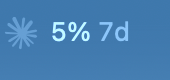
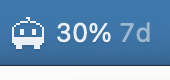
Replace the Claude mark with Sprout, an original pixel critter
The menu bar icon was the Claude mark pulled from Claude Desktop, which sat
right next to Claude Desktop's own identical menu bar icon. Sprout is ours:
drawn in code, no image files, and not a copy of Anthropic's logo or Clawd.

- Sprout's body fills from the bottom as the headline limit is used, in 12
  steps, so the icon shows how much is gone before you read the number.
- Outline plus fill: the edge is always solid and the inside fills. macOS
  draws menu bar icons in a narrow contrast band on tinted menu bars, so a
  faint "empty" body vanished there. The eyes flip (solid on empty, holes on
  filled) so the face always shows.
- 16x16 pt, one grid pixel per point, so the pixel art stays crisp.
- README screenshot and CLAUDE.md icon rule updated.

diff --git a/main.swift b/main.swift
@@ -413,76 +413,77 @@ func computePace(currentPercent: Double, samples: [Sample], meterKey: String, co
 
 // MARK: - Menu bar icon
 
-/// The real Claude app icon, read from the locally installed Claude Desktop at
-/// runtime — never bundled or redistributed by this app, just looked up the same
-/// way Finder or the Dock would show any other app's icon.
-private let claudeAppPaths = ["/Applications/Claude.app"]
-
-func loadClaudeIcon() -> NSImage? {
-    for path in claudeAppPaths where FileManager.default.fileExists(atPath: path) {
-        return NSWorkspace.shared.icon(forFile: path)
-    }
-    return nil
-}
-
-/// Extracts just the sunburst mark from the app icon — dropping both the solid
-/// background fill and the thin rim around its rounded-square edge — as a
-/// template image: a shape-only mask with no fixed color of its own, so AppKit
-/// auto-tints it to match the surrounding menu bar text exactly, in any theme
-/// (the same mechanism most menu bar icons use, e.g. the lock/extension icons
-/// next to this one).
+/// Sprout, ClaudeMeter's own pixel critter. Its body fills from the bottom as
+/// the headline limit is used up, so the icon shows how much is gone before
+/// you read the number. Drawn in code, no image files, and original on
+/// purpose: this app never bundles Anthropic's logo or mascot.
 ///
-/// Two passes over the pixels: brightness picks out the white mark (and,
-/// unfortunately, the rim, which is bright too); a margin around the edges then
-/// discards the rim specifically, since it hugs the icon's outer edge and the
-/// rays don't reach that far. The result is cropped tightly to the mark's own
-/// bounding box so it fills the small icon frame instead of floating in
-/// transparent padding.
-func silhouette(of icon: NSImage, pixelSize: Int = 512, threshold: CGFloat = 0.6,
-                 edgeInset: CGFloat = 0.18) -> NSImage? {
-    var rect = NSRect(x: 0, y: 0, width: pixelSize, height: pixelSize)
-    guard let cgImage = icon.cgImage(forProposedRect: &rect, context: nil, hints: nil) else { return nil }
-    let width = cgImage.width, height = cgImage.height
-    guard let context = CGContext(data: nil, width: width, height: height, bitsPerComponent: 8,
-                                   bytesPerRow: width * 4, space: CGColorSpaceCreateDeviceRGB(),
-                                   bitmapInfo: CGImageAlphaInfo.premultipliedLast.rawValue)
-    else { return nil }
-    context.draw(cgImage, in: CGRect(x: 0, y: 0, width: width, height: height))
-    guard let data = context.data else { return nil }
+/// `#` is always solid (antenna, feet). `b` is body: its outer edge is always
+/// solid and the inside fills. `e` is an eye: solid while the body around it is
+/// empty, a hole once it fills, so the face always shows. Top row first.
+///
+/// The outline is what makes this work on any wallpaper. macOS squeezes menu
+/// bar icons into a narrow contrast band on tinted menu bars, so a faint
+/// "empty" body vanished there; solid-or-clear pixels don't.
+private let sproutPixels = [
+    "........##........",
+    ".........#........",
+    ".....bbbbbbbb.....",
+    "...bbbbbbbbbbbb...",
+    "..bbbbbbbbbbbbbb..",
+    ".bbbbbbbbbbbbbbbb.",
+    ".bbbbeebbbbeebbbb.",
+    ".bbbbeebbbbeebbbb.",
+    ".bbbbeebbbbeebbbb.",
+    ".bbbbbbbbbbbbbbbb.",
+    ".bbbbbbbbbbbbbbbb.",
+    ".bbbbbbbbbbbbbbbb.",
+    ".bbbbbbbbbbbbbbbb.",
+    "..bbbbbbbbbbbbbb..",
+    "...###......###...",
+    "...###......###...",
+]
 
-    let buffer = data.bindMemory(to: UInt8.self, capacity: width * height * 4)
-    let insetPx = Int(CGFloat(width) * edgeInset)
-    var minX = width, maxX = 0, minY = height, maxY = 0
+/// A template image: shape only, no color of its own, so AppKit tints it to
+/// match the menu bar text in any theme.
+///
+/// One grid pixel is one point (two device pixels on Retina), which keeps the
+/// pixel art crisp. Blank columns are trimmed so the number sits right next to it.
+func sproutIcon(percentUsed: Double?) -> NSImage {
+    let rows = sproutPixels.map(Array.init)
+    let bodyRows = rows.indices.filter { rows[$0].contains("b") }
+    let fraction = min(max(percentUsed ?? 0, 0), 100) / 100
+    let filledCount = Int((fraction * Double(bodyRows.count)).rounded())
+    let filledRows = Set(bodyRows.suffix(filledCount))
 
-    for y in 0..<height {
-        for x in 0..<width {
-            let i = (y * width + x) * 4
-            let alpha = CGFloat(buffer[i + 3]) / 255
-            let nearEdge = x < insetPx || x >= width - insetPx || y < insetPx || y >= height - insetPx
-            guard alpha > 0.95, !nearEdge else { buffer[i + 3] = 0; continue }
-            let luminance = 0.299 * CGFloat(buffer[i]) / 255
-                + 0.587 * CGFloat(buffer[i + 1]) / 255
-                + 0.114 * CGFloat(buffer[i + 2]) / 255
-            let keep = luminance > threshold
-            buffer[i + 3] = keep ? 255 : 0
-            buffer[i] = 255; buffer[i + 1] = 255; buffer[i + 2] = 255 // template images ignore RGB anyway
-            if keep {
-                minX = min(minX, x); maxX = max(maxX, x)
-                minY = min(minY, y); maxY = max(maxY, y)
-            }
+    func isEdge(_ y: Int, _ x: Int) -> Bool {
+        [(y - 1, x), (y + 1, x), (y, x - 1), (y, x + 1)].contains { ny, nx in
+            !rows.indices.contains(ny) || !rows[ny].indices.contains(nx) || rows[ny][nx] == "."
         }
     }
-    guard let fullCG = context.makeImage(), maxX > minX, maxY > minY else { return nil }
 
-    let pad = Int(CGFloat(maxX - minX) * 0.06)
-    let cropRect = CGRect(x: max(0, minX - pad), y: max(0, minY - pad),
-                           width: min(width, maxX - minX + pad * 2),
-                           height: min(height, maxY - minY + pad * 2))
-    guard let croppedCG = fullCG.cropping(to: cropRect) else { return nil }
+    let usedColumns = rows.flatMap { row in row.indices.filter { row[$0] != "." } }
+    let firstColumn = usedColumns.min() ?? 0, lastColumn = usedColumns.max() ?? 0
 
-    let result = NSImage(cgImage: croppedCG, size: NSSize(width: 18, height: 18))
-    result.isTemplate = true
-    return result
+    let image = NSImage(size: NSSize(width: lastColumn - firstColumn + 1, height: rows.count),
+                        flipped: true) { _ in
+        NSColor.black.setFill()
+        for (y, row) in rows.enumerated() {
+            for (x, pixel) in row.enumerated() {
+                let solid: Bool
+                switch pixel {
+                case "#": solid = true
+                case "b": solid = filledRows.contains(y) || isEdge(y, x)
+                case "e": solid = !filledRows.contains(y)
+                default: solid = false
+                }
+                if solid { NSRect(x: x - firstColumn, y: y, width: 1, height: 1).fill() }
+            }
+        }
+        return true
+    }
+    image.isTemplate = true
+    return image
 }
 
 // MARK: - Login item
@@ -521,7 +522,6 @@ final class AppDelegate: NSObject, NSApplicationDelegate {
     private var statusItem: NSStatusItem!
     private var watcher: DispatchSourceFileSystemObject?
     private var timer: Timer?
-    private let iconSilhouette = loadClaudeIcon().flatMap { silhouette(of: $0) }
 
     func applicationDidFinishLaunching(_ notification: Notification) {
         statusItem = NSStatusBar.system.statusItem(withLength: NSStatusItem.variableLength)
@@ -553,8 +553,9 @@ final class AppDelegate: NSObject, NSApplicationDelegate {
 
         // The icon is a template image, so it always matches the menu bar's own
         // text color automatically — no manual color logic needed for it, in any
-        // theme. Only the percentage text carries the warning color.
-        button.image = iconSilhouette
+        // theme. Only the percentage text carries the warning color. With no
+        // reading yet, Sprout shows empty.
+        button.image = sproutIcon(percentUsed: reading?.headline?.percentUsed)
 
         guard let reading, let headline = reading.headline else {
             button.attributedTitle = styled(" —", color: .secondaryLabelColor)

diff --git a/CLAUDE.md b/CLAUDE.md
@@ -79,5 +79,6 @@ claudemeter`.
   attach it to a GitHub release with `gh release create vX.Y.Z dist/ClaudeMeter.zip`.
   Then bump `url` and `sha256` in the Homebrew formula (repo
   `andy-watanabe/homebrew-claudmeter`, `Formula/claudemeter.rb`) to the new tag.
-- Never bundle Anthropic's logo or mascot. The menu bar mark is extracted at
-  runtime from the user's installed Claude Desktop.
+- Never bundle or copy Anthropic's logo or mascot (including Clawd). The menu
+  bar icon is Sprout, an original pixel critter drawn in code (`sproutPixels`
+  in `main.swift`). Its body fills from the bottom as the headline limit is used.

diff --git a/README.md b/README.md
@@ -3,7 +3,7 @@
 See how much of your Claude usage limit you've used, right in your Mac's menu bar,
 and whether you're on pace to run out before it resets.
 
-<img src="docs/menubar.png" alt="The menu bar showing the Claude mark, 5%, and a 7d tag" width="85">
+<img src="docs/menubar.png" alt="The menu bar showing Sprout, 30%, and a 7d tag" width="85">
 
 It works with whatever limits your Claude org has: a **monthly** cap, a **5-hour**
 and **7-day** window, or both. It reads Claude Desktop's own local log. Nothing is
